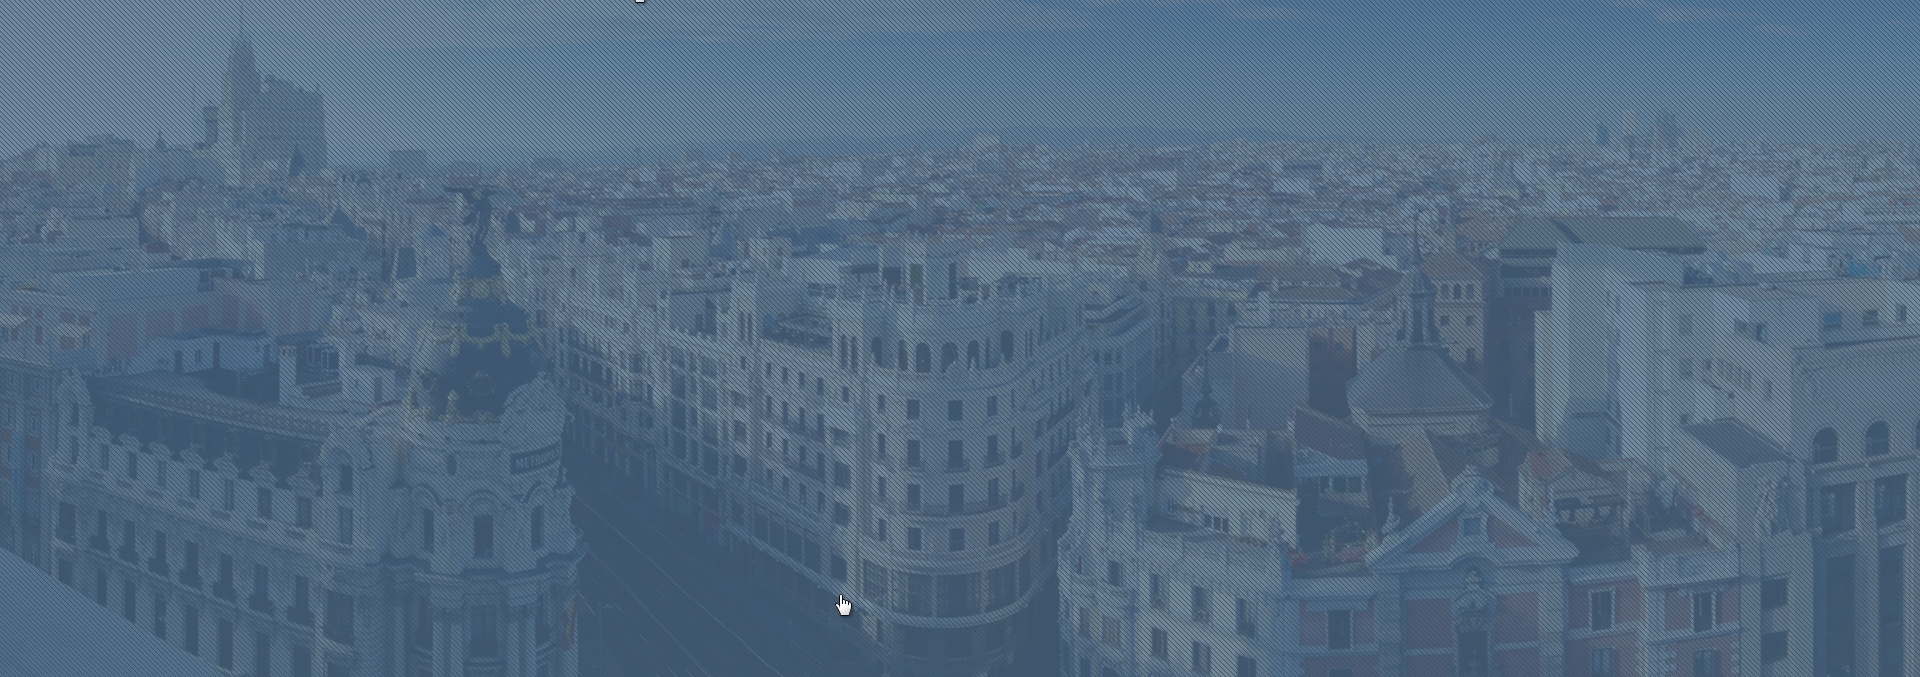
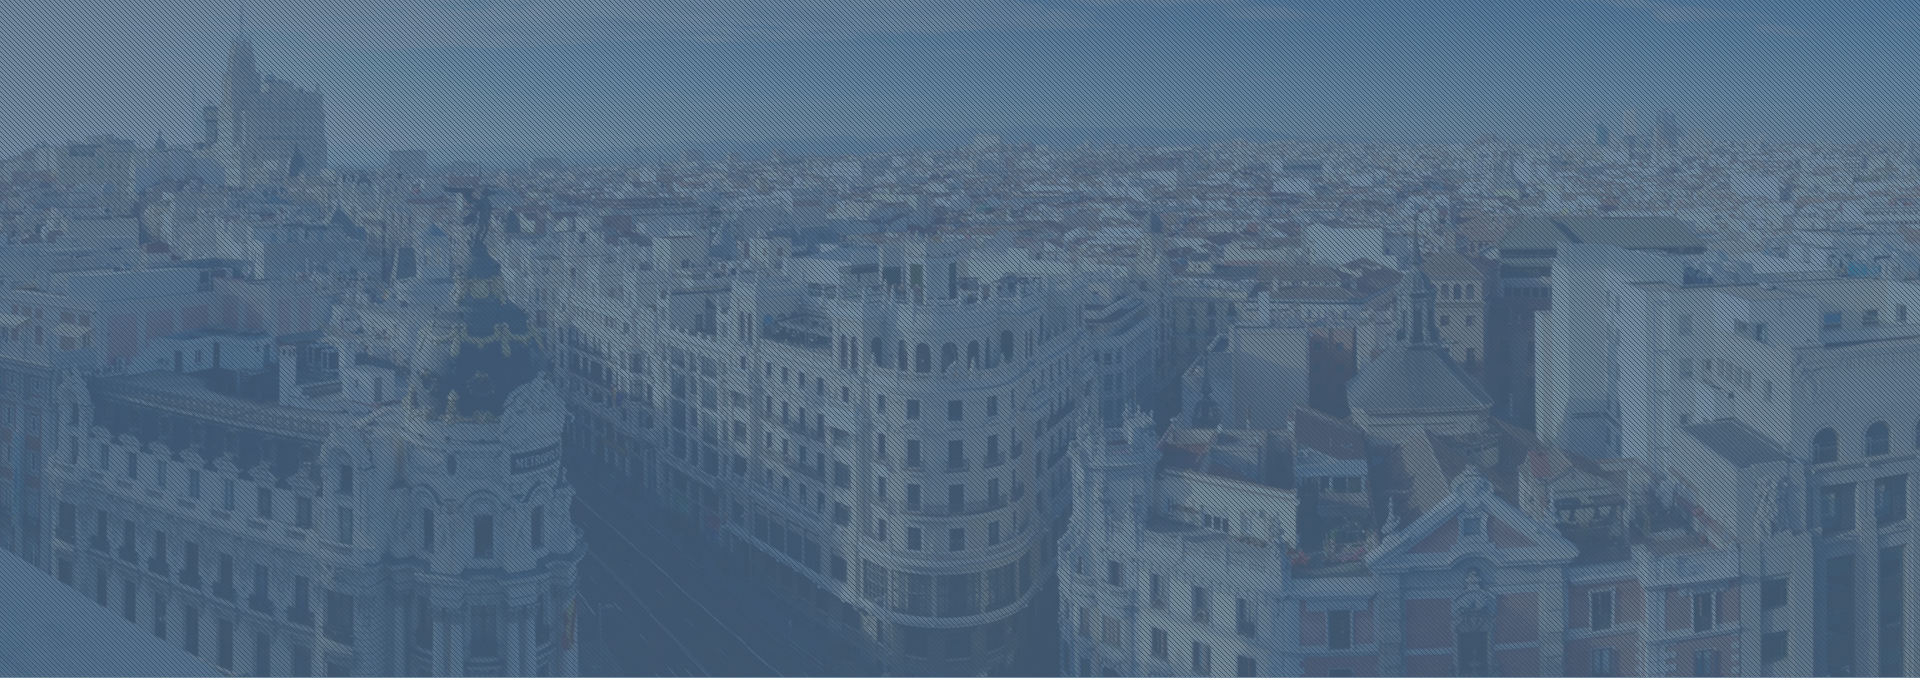
presentation

diff --git a/src/styles/presentation.scss b/src/styles/presentation.scss
@@ -1,0 +1,47 @@
+.presentation {
+  background: #3d5368 url('../images/city.jpg') center center no-repeat;
+  height: 675px;
+  padding-top: 100px;
+  text-align: center;
+  h1 {
+    color: #fff;
+    font-family: 'Vollkorn', serif;
+    font-size: 72px;
+  }
+  h2 {
+    color: #fff;
+    font-family: 'Vollkorn', serif;
+    font-size: 35px;
+  }
+  .button-wrapper {
+    margin-top: 100px;
+  }
+  a {
+    border-radius: 3px;
+    border: 2px solid #fff;
+    color: #fff;
+    display: block;
+    font-size: 22px;
+    font-weight: 700;
+    height: 60px;
+    line-height: 60px;
+    margin: 0 auto;
+    text-decoration: none;
+    transition: background .3s;
+    width: 270px;
+    &:hover {
+      background-color: #34495e;
+    }
+  }
+}
+
+@media screen and (min-width: 1024px) {
+  .presentation {
+    h1 {
+      font-size: 135px;
+    }
+    h2 {
+      font-size: 72px;
+    }
+  }
+}

diff --git a/src/styles/main.scss b/src/styles/main.scss
@@ -3,3 +3,5 @@
 
 @import 'social';
 @import 'menu';
+
+@import 'presentation';
